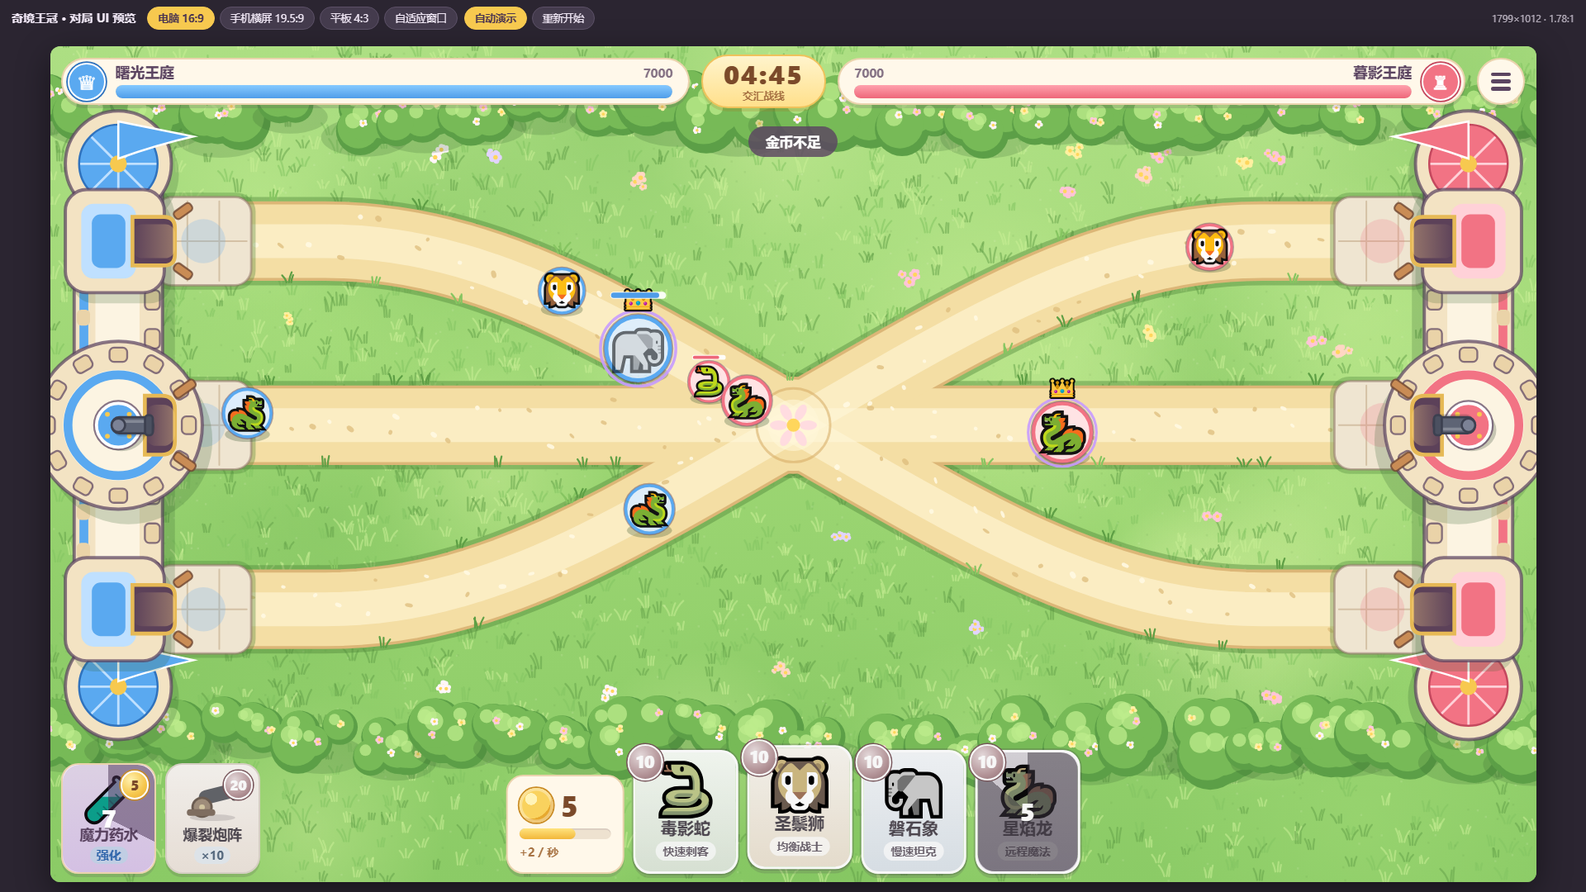
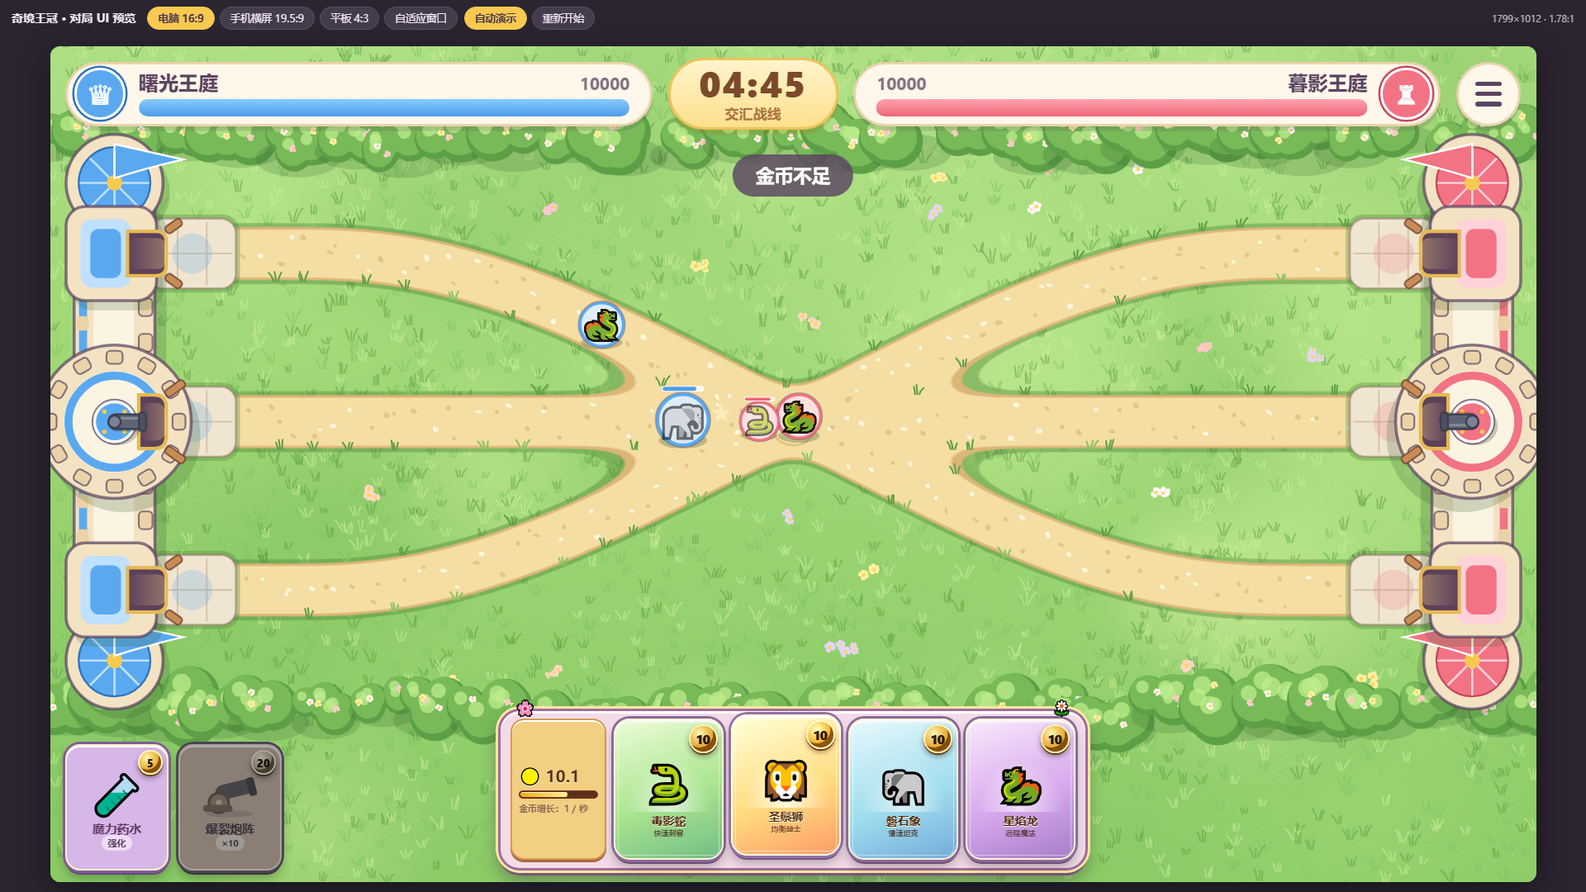
design: restore original card tray, narrow roads, round junctions, enlarge HUD

diff --git a/design/ui-preview.html b/design/ui-preview.html
@@ -81,48 +81,51 @@ body.fill #stage{border-radius:0;box-shadow:none}
 #hint{left:50%;top:8.4rem;transform:translateX(-50%);padding:.7rem 1.8rem;border-radius:2rem;background:rgba(91,68,97,.82);color:#fff;font-size:max(10px,1.45rem);font-weight:700;white-space:nowrap;opacity:0;transition:opacity .2s;pointer-events:none}
 #hint.show{opacity:1}
 
-/* ---------- 底部一行：技能 + 金币 + 四张卡 ---------- */
-#dock{left:1.2rem;right:1.2rem;bottom:.9rem;height:13.4rem}
-#skills{position:absolute;left:0;bottom:0;display:flex;gap:.9rem}
-#hand{position:absolute;left:50%;bottom:0;transform:translateX(-50%);display:flex;align-items:flex-end;gap:1rem}
+/* ---------- 底部：左侧技能 + 中间卡牌托盘（外观还原原版） ---------- */
+#dock{left:1.2rem;right:1.2rem;bottom:.9rem;height:12.6rem}
+#skills{position:absolute;left:0;bottom:0;display:flex;gap:.8rem}
+#hand{position:absolute;left:50%;bottom:0;transform:translateX(-50%);height:100%;display:flex;align-items:stretch;gap:.62rem;padding:.62rem .8rem;border-radius:1.7rem;background:#f3dce8;border:max(2px,.25rem) solid #a06d9d;box-shadow:inset 0 .19rem 0 #fff,0 0 0 max(1.5px,.19rem) #ffe8a1,0 .38rem 0 #7a567d,0 .75rem 1.2rem rgba(56,40,61,.4)}
+#hand::before,#hand::after{position:absolute;top:-.82rem;font-family:var(--emoji);font-size:max(12px,1.2rem);line-height:1;z-index:4}
+#hand::before{content:"🌸";left:1.1rem}
+#hand::after{content:"🌼";right:1.1rem}
 
-.skill{position:relative;width:10rem;height:11.6rem;border-radius:1.8rem;display:flex;flex-direction:column;align-items:center;justify-content:center;gap:.3rem;overflow:hidden}
-.skill .art{height:5.2rem;display:grid;place-items:center;font-family:var(--emoji);font-size:4.6rem;line-height:1}
-.skill .art svg{width:7rem;height:5.2rem}
-.skill .name{font-size:max(10px,1.55rem);font-weight:800;white-space:nowrap}
-.skill .meta{display:flex;gap:.5rem;align-items:center;font:700 max(9px,1.3rem)/1 var(--num-font)}
-.skill .count{padding:.25rem .7rem;border-radius:1rem;background:var(--blue-l);color:var(--blue-d)}
-.skill.potion{background:linear-gradient(#f9efff,#efdcff)}
-.skill.burst{background:linear-gradient(#fff4e6,#ffe1c4)}
+.coins{width:7.4rem;border-radius:1.05rem;padding:.5rem;display:flex;flex-direction:column;justify-content:center;gap:.32rem;background:#f2cf83;border:max(1.5px,.19rem) solid #d49b56;box-shadow:inset 0 .13rem 0 #fff,0 .19rem 0 #a8683e;color:#65403f}
+.coins b{font-size:max(12px,1.25rem);font-weight:900;color:#593013;text-shadow:0 1px #fff4bd;white-space:nowrap;font-variant-numeric:tabular-nums}
+.coins .bar{height:.6rem;margin:0;border:max(1px,.13rem) solid #6c351c;background:#5b2f1c;box-shadow:none}
+.coins .bar i{background:linear-gradient(90deg,#f0a918,#fff08d);box-shadow:inset 0 1px #fff7bd}
+.coins small{font-size:max(8px,.7rem);font-weight:800;opacity:.72;white-space:nowrap}
 
-.coins{width:12.4rem;height:10.4rem;border-radius:1.8rem;padding:1rem 1.2rem;display:flex;flex-direction:column;justify-content:center;gap:.6rem}
-.coins .top{display:flex;align-items:center;gap:.8rem}
-.coin-ico{flex:none;width:3.6rem;height:3.6rem;border-radius:50%;background:radial-gradient(circle at 35% 32%,#fff3b8 0 18%,#f9d25e 19% 60%,#e7a92f 61%);box-shadow:inset 0 0 0 .3rem rgba(255,255,255,.35),0 0 0 max(1px,.16rem) #c98a22}
-.coins b{font:800 max(15px,3rem)/1 var(--num-font);font-variant-numeric:tabular-nums;color:#7b4a2a}
-.coins .bar{margin-top:0;height:1.2rem}
-.coins .bar i{background:linear-gradient(#ffe37d,#f2b73a)}
-.coins small{font-size:max(9px,1.2rem);font-weight:700;color:#a87445;white-space:nowrap}
+.card{position:relative;width:8.5rem;border-radius:1.25rem;padding:0 .38rem;display:flex;flex-direction:column;align-items:center;justify-content:center;overflow:hidden;color:#492919;background:var(--card-bg);border:max(1.5px,.19rem) solid #fff6d4;box-shadow:inset 0 .13rem 0 #fff,0 0 0 max(1.5px,.19rem) #8c6a9c,0 .32rem 0 #705179,0 .56rem .8rem rgba(0,0,0,.27);transition:transform .15s,filter .2s}
+.card::before{content:"";position:absolute;inset:.19rem;border:1px solid rgba(255,255,255,.48);border-radius:.56rem;pointer-events:none}
+.card .art{width:100%;height:4.6rem;margin-top:.9rem;display:grid;place-items:center;font-family:var(--emoji);font-size:2.9rem;line-height:1;background:radial-gradient(ellipse at 50% 95%,rgba(255,255,255,.68),transparent 63%)}
+.card .name{font-size:max(10px,.9rem);font-weight:900;text-shadow:0 1px #fff9d0;white-space:nowrap;margin-top:.15rem}
+.card .tag{font-size:max(8px,.58rem);font-weight:800;opacity:.72;white-space:nowrap}
+.cost{position:absolute;right:.32rem;top:.32rem;width:2.2rem;height:2.2rem;border-radius:50%;display:grid;place-items:center;font:900 max(10px,1rem)/1 var(--num-font);color:#2a1903;background:radial-gradient(circle at 35% 30%,#fff9b8,#e9a92c 55%,#86510e 57%);border:max(1.5px,.13rem) solid #fff6b5;box-shadow:0 .13rem 0 #6f3d0e,0 .25rem .45rem rgba(0,0,0,.4);z-index:2}
+.card[data-type="snake"]{--card-bg:linear-gradient(160deg,#efffd8,#abe88f 56%,#72bf85)}
+.card[data-type="lion"]{--card-bg:linear-gradient(160deg,#fff4cf,#ffd078 58%,#ed9563)}
+.card[data-type="elephant"]{--card-bg:linear-gradient(160deg,#eafdff,#9fdef0 58%,#75aede)}
+.card[data-type="dragon"]{--card-bg:linear-gradient(160deg,#fcecff,#d9a8ef 58%,#a77fcb)}
 
-.card{position:relative;width:11rem;height:13rem;border-radius:1.8rem;display:flex;flex-direction:column;align-items:center;justify-content:flex-end;padding-bottom:1.1rem;gap:.35rem;background:var(--card-bg);border:max(2px,.3rem) solid #fff;box-shadow:0 0 0 max(1px,.16rem) rgba(91,68,97,.28),0 .45rem 0 var(--ink-soft);transition:transform .15s,filter .2s}
-.card .art{font-family:var(--emoji);font-size:5.4rem;line-height:1;margin-bottom:.2rem}
-.card .name{font-size:max(10px,1.75rem);font-weight:800;white-space:nowrap}
-.card .tag{padding:.2rem .8rem;border-radius:1rem;background:rgba(255,255,255,.75);font-size:max(9px,1.2rem);font-weight:700;white-space:nowrap;color:#7a5c80}
-.cost{position:absolute;left:-.9rem;top:-.9rem;width:3.8rem;height:3.8rem;border-radius:50%;display:grid;place-items:center;font:800 max(11px,1.8rem)/1 var(--num-font);color:#7b4a2a;background:radial-gradient(circle at 35% 30%,#fff1b0,#f6c74d 60%,#e8a930);border:max(1.5px,.22rem) solid #fff;box-shadow:0 0 0 max(1px,.14rem) #c98a22;z-index:2}
-.skill .cost{left:auto;right:.6rem;top:.6rem;width:3rem;height:3rem;font-size:max(10px,1.45rem)}
-.card[data-type="snake"]{--card-bg:linear-gradient(#efffe8,#cdeec0)}
-.card[data-type="lion"]{--card-bg:linear-gradient(#fff6e0,#ffe0aa)}
-.card[data-type="elephant"]{--card-bg:linear-gradient(#eef8ff,#cfe6fb)}
-.card[data-type="dragon"]{--card-bg:linear-gradient(#fbf0ff,#e7d2fb)}
-.card:hover{transform:translateY(-.5rem)}
-.card.selected,.skill.selected{transform:translateY(-1.2rem);box-shadow:0 0 0 max(2px,.35rem) var(--gold),0 .8rem 0 var(--ink-soft)}
-.card.poor,.skill.poor{filter:saturate(.3) brightness(.97)}
-.card.poor .cost,.skill.poor .cost{background:radial-gradient(circle at 35% 30%,#ffd9dd,#f48a97 60%,#d65b6c);box-shadow:0 0 0 max(1px,.14rem) #b94457;color:#fff}
-.card.buffed{box-shadow:0 0 0 max(2px,.35rem) #c79bff,0 .45rem 0 var(--ink-soft)}
-.card.buffed::before{content:"👑";position:absolute;right:.5rem;top:.3rem;font-family:var(--emoji);font-size:2.2rem}
+.skill{position:relative;width:8rem;height:9.8rem;border-radius:1.15rem;display:flex;flex-direction:column;align-items:center;justify-content:center;gap:.2rem;overflow:hidden;color:#613b65;border:max(1.5px,.19rem) solid #fff1c8;box-shadow:inset 0 .13rem 0 #fff,0 0 0 max(1.5px,.19rem) #7f5b98,0 .32rem 0 #654777,0 .56rem .9rem rgba(0,0,0,.27);transition:transform .15s,filter .2s}
+.skill.potion{background:#d7b7e8}
+.skill.burst{background:#f3b184}
+.skill .art{height:4rem;display:grid;place-items:center;font-family:var(--emoji);font-size:3.1rem;line-height:1}
+.skill .art svg{width:5.4rem;height:4rem}
+.skill .name{font-size:max(10px,.95rem);font-weight:800;white-space:nowrap}
+.skill .meta{font:700 max(8px,.7rem)/1 var(--num-font)}
+.skill .count{padding:.15rem .5rem;border-radius:1rem;background:rgba(255,255,255,.55)}
+.skill .cost{width:1.9rem;height:1.9rem;font-size:max(9px,.85rem)}
 
-/* 冷却遮罩：圆形扫描 + 秒数 */
-.cd{position:absolute;inset:0;border-radius:inherit;display:none;place-items:center;background:conic-gradient(rgba(70,48,82,.58) calc(var(--p,0) * 1turn),rgba(70,48,82,.16) 0);font:800 max(13px,2.6rem)/1 var(--num-font);color:#fff;text-shadow:0 .2rem 0 rgba(0,0,0,.25);z-index:1}
-.cooling .cd{display:grid}
+.card:hover,.skill:hover{transform:translateY(-.32rem);filter:brightness(1.05)}
+.card.selected,.skill.selected{transform:translateY(-.2rem);filter:brightness(1.16);outline:max(2px,.19rem) solid #fff7bf;box-shadow:0 0 0 max(1.5px,.19rem) #9c551f,0 0 1.15rem #ffe787}
+.card.poor,.card.cooling,.skill.poor,.skill.cooling{filter:grayscale(.72) brightness(.68)}
+.card.buffed{outline:max(2px,.19rem) solid #d798ff;box-shadow:0 0 1.6rem rgba(199,120,255,.9),0 .56rem 1.25rem rgba(0,0,0,.42)}
+.card.buffed::after{content:"药水强化";position:absolute;left:.32rem;bottom:.32rem;padding:.12rem .32rem;border-radius:.38rem;background:rgba(101,39,145,.9);border:1px solid #e2b3ff;color:#fff;font-size:max(8px,.56rem);font-weight:900;z-index:3}
+
+/* 冷却遮罩：原版样式，从底部按剩余比例升起 + 秒数 */
+.cd{display:none;position:absolute;left:0;right:0;bottom:0;height:calc(var(--p,0) * 100%);background:linear-gradient(rgba(31,23,25,.64),rgba(12,9,13,.86));z-index:1;pointer-events:none}
+.cooling .cd{display:block}
+.cooling::after{content:attr(data-cd);position:absolute;inset:0;display:grid;place-items:center;font:900 max(12px,1.5rem)/1 var(--num-font);color:#fff7cf;text-shadow:0 2px 5px #000;z-index:4;pointer-events:none}
 
 /* ---------- 竖屏提示（仅自适应模式） ---------- */
 #rotate{position:absolute;inset:0;display:none;place-content:center;text-align:center;gap:12px;background:#2b2531;color:#fff;font-size:16px;z-index:5}
@@ -154,7 +157,7 @@ body.fill #stage{border-radius:0;box-shadow:none}
       <div class="plate player panel">
         <div class="crest">♛</div>
         <div class="info">
-          <div class="row"><span>曙光王庭</span><span class="hp" id="pHpText">7000</span></div>
+          <div class="row"><span>曙光王庭</span><span class="hp" id="pHpText">10000</span></div>
           <div class="bar"><i id="pHp"></i></div>
         </div>
       </div>
@@ -162,7 +165,7 @@ body.fill #stage{border-radius:0;box-shadow:none}
       <div class="plate enemy panel">
         <div class="crest">♜</div>
         <div class="info">
-          <div class="row"><span>暮影王庭</span><span class="hp" id="eHpText">7000</span></div>
+          <div class="row"><span>暮影王庭</span><span class="hp" id="eHpText">10000</span></div>
           <div class="bar"><i id="eHp"></i></div>
         </div>
       </div>
@@ -181,13 +184,13 @@ body.fill #stage{border-radius:0;box-shadow:none}
 
     <div id="dock" class="hud">
       <div id="skills">
-        <button class="skill potion panel" data-skill="potion" title="魔力药水：选中后点一张卡牌，强化该卡下一次部署的单位">
+        <button class="skill potion" data-skill="potion" title="魔力药水：选中后点一张卡牌，强化该卡下一次部署的单位">
           <span class="cost">5</span>
           <span class="art">🧪</span><span class="name">魔力药水</span>
           <span class="meta"><span class="count">强化</span></span>
           <span class="cd"></span>
         </button>
-        <button class="skill burst panel" data-skill="burst" title="爆裂炮阵：选中后点一条道路，沿该路连续炮击">
+        <button class="skill burst" data-skill="burst" title="爆裂炮阵：选中后点一条道路，沿该路连续炮击">
           <span class="cost">20</span>
           <span class="art"><svg viewBox="0 0 70 52" aria-hidden="true">
             <ellipse cx="35" cy="47" rx="24" ry="3.5" fill="rgba(91,68,97,.18)"/>
@@ -203,10 +206,10 @@ body.fill #stage{border-radius:0;box-shadow:none}
         </button>
       </div>
       <div id="hand">
-        <div class="coins panel">
-          <div class="top"><span class="coin-ico"></span><b id="coinText">20</b></div>
+        <div class="coins">
+          <b id="coinText">🟡 15.0</b>
           <div class="bar"><i id="coinBar"></i></div>
-          <small>+2 / 秒</small>
+          <small>金币增长：1 / 秒</small>
         </div>
         <button class="card" data-type="snake" title="毒影蛇 · 快速刺客&#10;生命 500 · 攻击 10 · 移速 80 · 射程 60&#10;中毒 2/s×10 秒，可独立叠加"><span class="cost">10</span><span class="art">🐍</span><span class="name">毒影蛇</span><span class="tag">快速刺客</span><span class="cd"></span></button>
         <button class="card" data-type="lion" title="圣鬃狮 · 均衡战士&#10;生命 700 · 攻击 20 · 移速 60 · 射程 70&#10;参与击杀回复 100 生命"><span class="cost">10</span><span class="art">🦁</span><span class="name">圣鬃狮</span><span class="tag">均衡战士</span><span class="cd"></span></button>
@@ -228,7 +231,7 @@ const stage = $('#stage');
 let ratio = 1.7778;
 
 // u = 舞台基准单位（px）。按高度 1%，宽度过窄时收缩，太小时保底以保证手机可读。
-function computeUnit(w, h) { return Math.max(4.8, Math.min(h / 88, w * .0072)); }
+function computeUnit(w, h) { return Math.max(6.5, Math.min(h / 65, w * .0097)); }
 
 function fitStage() {
   const vp = $('#viewport').getBoundingClientRect();
@@ -301,9 +304,10 @@ function bez(out, p0, p1, p2, p3, n) {
 /* ---------- 几何：全部由舞台宽高推导，战场随比例拉伸 ---------- */
 function buildGeometry(w, h) {
   const u = parseFloat(getComputedStyle(document.documentElement).fontSize) || 8;
-  const top = 7.6 * u, bottom = h - 15.8 * u, band = bottom - top, cy = (top + bottom) / 2;
+  const top = 7.4 * u, bottom = h - 14 * u, band = bottom - top, cy = (top + bottom) / 2;
   const s = Math.min(band * .3, w * .16);          // 车道间距
-  const rw = s * .4;                                // 路宽
+  const rw = s * .4;                                // 建筑与单位尺度基准
+  const road = rw * .7;                             // 路面宽
   const S0 = rw / 50;                               // 线宽/细节基准
   const T = rw * 1.2;                               // 城墙厚度
   const m = Math.max(w * .016, rw * .25);           // 城墙到舞台边缘
@@ -320,7 +324,7 @@ function buildGeometry(w, h) {
   const mid = []; for (let i = 0; i <= 12; i++) mid.push({ x: lerp(rs, re, i / 12), y: cy });
   const paths = [cross(ys[0], ys[2]), new Path(mid), cross(ys[2], ys[0])];
   return {
-    w, h, u, top, bottom, cy, cx, s, rw, S0, T, m, x1L, x1R, rs, re, L, ys, paths,
+    w, h, u, top, bottom, cy, cx, s, rw, road, S0, T, m, x1L, x1R, rs, re, L, ys, paths,
     wy0: ys[0] - rw * 1.05, wy1: ys[2] + rw * 1.05,
     unitR: rw * .3,
     k: L / 1070,                                    // 原版道路长 1070 px → 当前像素的换算系数
@@ -330,7 +334,7 @@ function buildGeometry(w, h) {
 
 /* ---------- 静态底图：草地 + 道路 + 平台 + 花丛（缓存为离屏画布） ---------- */
 function farFromRoads(F, x, y, gap) {
-  for (const p of F.paths) if (p.nearest(x, y).d < F.rw / 2 + gap) return false;
+  for (const p of F.paths) if (p.nearest(x, y).d < F.road / 2 + gap) return false;
   return x > F.x1L + F.rw * .9 && x < F.x1R - F.rw * .9;
 }
 function drawBlades(g, x, y, len, S0, color, rnd) {
@@ -357,21 +361,38 @@ function drawBush(g, x, y, r, rnd, S0) {
   for (let i = 0; i < 3; i++) { const b = blobs[i]; drawFlower(g, b.x + (rnd() - .5) * b.r, b.y + (rnd() - .5) * b.r * .6, Math.max(1.1, 1.6 * S0), pet[i % 3], rnd); }
 }
 function roadLayers(F) {
-  const { rw, S0 } = F;
+  const { road, S0 } = F;
   return [
-    { w: rw + 10 * S0, c: 'rgba(78,134,58,.42)' },   // 草地压边：清楚的绿色描边
-    { w: rw + 4 * S0, c: '#dcb677' },                 // 沙土外沿
-    { w: rw, c: '#f4dea4' },                          // 路面
-    { w: rw * .46, c: 'rgba(255,246,216,.6)' }        // 中线提亮
+    { w: road + 10 * S0, c: 'rgba(78,134,58,.42)' },   // 草地压边：清楚的绿色描边
+    { w: road + 4 * S0, c: '#dcb677' },                 // 沙土外沿
+    { w: road, c: '#f4dea4' }                           // 路面
   ];
 }
+// 道路蒙版：先按宽度画出三条路，再模糊后取阈值。凹角（分岔、交汇处）会被填成圆弧，直边基本不动。
+function erf(x) { const t = 1 / (1 + .3275911 * x); return 1 - (((((1.061405429 * t - 1.453152027) * t) + 1.421413741) * t - .284496736) * t + .254829592) * t * Math.exp(-x * x); }
+function roadMask(F, width, color, dpr) {
+  const W = Math.round(F.w * dpr), H = Math.round(F.h * dpr);
+  const a = document.createElement('canvas'); a.width = W; a.height = H;
+  const ga = a.getContext('2d'); ga.setTransform(dpr, 0, 0, dpr, 0, 0);
+  ga.strokeStyle = ga.fillStyle = '#fff'; ga.lineWidth = width; ga.lineCap = 'round'; ga.lineJoin = 'round';
+  for (const p of F.paths) { p.trace(ga); ga.stroke(); }
+  circle(ga, F.cx, F.cy, F.road * .62 + (width - F.road) / 2); ga.fill();
+  const b = document.createElement('canvas'); b.width = W; b.height = H;
+  const gb = b.getContext('2d', { willReadFrequently: true });
+  const sigma = F.road * .45, edge = .5 * erf(width / (sigma * Math.SQRT2)) * 255, lo = edge - 3, hi = edge + 3;
+  gb.filter = `blur(${(sigma * dpr).toFixed(1)}px)`; gb.drawImage(a, 0, 0); gb.filter = 'none';
+  const img = gb.getImageData(0, 0, W, H), d = img.data;
+  for (let i = 3; i < d.length; i += 4) { const v = d[i]; d[i] = v <= lo ? 0 : v >= hi ? 255 : (v - lo) / (hi - lo) * 255; d[i - 3] = d[i - 2] = d[i - 1] = 255; }
+  gb.putImageData(img, 0, 0);
+  gb.globalCompositeOperation = 'source-in'; gb.fillStyle = color; gb.fillRect(0, 0, W, H);
+  return b;
+}
 function drawRoads(g, F, rnd) {
-  const { rw, S0, cx, cy } = F;
+  const { road: rw, S0, cx, cy } = F, dpr = g.getTransform().a;
   g.save(); g.lineCap = 'round'; g.lineJoin = 'round';
   for (const layer of roadLayers(F)) {
-    g.strokeStyle = layer.c; g.fillStyle = layer.c; g.lineWidth = layer.w;
-    for (const p of F.paths) { p.trace(g); g.stroke(); }
-    circle(g, cx, cy, rw * .62 + (layer.w - rw) / 2); g.fill();      // 中央小广场
+    const m = roadMask(F, layer.w, layer.c, dpr);
+    g.save(); g.setTransform(1, 0, 0, 1, 0, 0); g.drawImage(m, 0, 0); g.restore();
   }
   // 广场花砖
   g.strokeStyle = 'rgba(214,170,98,.55)'; g.lineWidth = Math.max(1, 1.6 * S0);
@@ -406,7 +427,7 @@ function drawPlatforms(g, F) {
   const { rw, S0, ys, T } = F;
   for (const side of ['player', 'enemy']) {
     for (const y of ys) {
-      const x0 = side === 'player' ? F.x1L - T * .08 : F.x1R - rw * 1.22, wdt = rw * 1.3, hh = rw * .6;
+      const x0 = side === 'player' ? F.x1L - T * .08 : F.x1R - rw * 1.22, wdt = rw * 1.3, hh = rw * .52;
       g.fillStyle = 'rgba(78,134,58,.35)'; rr(g, x0 - 3 * S0, y - hh - 3 * S0, wdt + 6 * S0, hh * 2 + 6 * S0, rw * .26); g.fill();
       g.fillStyle = '#efe5d1'; g.strokeStyle = 'rgba(150,120,110,.55)'; g.lineWidth = Math.max(1, 1.6 * S0);
       rr(g, x0, y - hh, wdt, hh * 2, rw * .22); g.fill(); g.stroke();
@@ -571,7 +592,7 @@ function drawCannon(g, F, side, st) {
 function highlightLane(g, F, i, color) {
   const p = F.paths[i];
   g.save(); g.lineCap = 'round'; g.lineJoin = 'round';
-  g.strokeStyle = color; g.globalAlpha = .28; g.lineWidth = F.rw * .9; p.trace(g); g.stroke();
+  g.strokeStyle = color; g.globalAlpha = .28; g.lineWidth = F.road * 1.1; p.trace(g); g.stroke();
   g.globalAlpha = 1; g.lineWidth = Math.max(2, 3.2 * F.S0); g.setLineDash([F.rw * .32, F.rw * .24]); p.trace(g); g.stroke();
   g.restore();
 }
@@ -612,13 +633,13 @@ const UNITS = {
   dragon:   { icon: '🐉', cost: 10, hp: 800,  atk: 20, speed: 50, range: 100, interval: 1,  cd: 5, size: 29, faceLeft: true, ranged: true }
 };
 const SKILLS = { potion: { cost: 5, cd: 20 }, burst: { cost: 20, cd: 20, dmg: 1000, n: 10 } };
-const WALL_HP = 7000, INCOME = 2, CANNON = { interval: 2, windup: .28, dmg: 150, speed: 760 };
+const WALL_HP = 10000, INCOME = 1, CANNON = { interval: 2, windup: .28, dmg: 150, speed: 760 };
 const TYPES = Object.keys(UNITS);
 
 let S;
 function reset() {
   S = {
-    time: 300, coins: { player: 20, enemy: 20 }, hp: { player: WALL_HP, enemy: WALL_HP },
+    time: 300, coins: { player: 15, enemy: 15 }, hp: { player: WALL_HP, enemy: WALL_HP },
     units: [], shots: [], fx: [], nextId: 1, paused: false, over: 0, clock: 0,
     cool: { player: {}, enemy: {} }, skillCool: { player: { potion: 0, burst: 0 }, enemy: { potion: 0, burst: 0 } },
     buffed: { player: null, enemy: null }, selected: null, hover: -1,
@@ -653,7 +674,7 @@ function deploy(side, type, lane) {
   S.coins[side] -= d.cost; S.cool[side][type] = d.cd;
   const buffed = S.buffed[side] === type; if (buffed) S.buffed[side] = null;
   S.units.push({
-    id: S.nextId++, side, type, lane, t: side === 'player' ? 0 : 1, offset: (Math.random() - .5) * .34,
+    id: S.nextId++, side, type, lane, t: side === 'player' ? 0 : 1, offset: 0,
     hp: d.hp * (buffed ? 1.5 : 1), maxHp: d.hp * (buffed ? 1.5 : 1), buffed, clock: .3, bob: Math.random() * TAU, flash: 0, attack: 0, born: .35
   });
   return true;
@@ -942,17 +963,17 @@ function syncHud() {
   $('#eHp').style.width = (S.hp.enemy / WALL_HP * 100).toFixed(1) + '%';
   $('#pHpText').textContent = Math.ceil(S.hp.player); $('#eHpText').textContent = Math.ceil(S.hp.enemy);
   $('#timer').textContent = fmt(Math.ceil(S.time));
-  $('#coinText').textContent = Math.floor(S.coins.player);
+  $('#coinText').textContent = '🟡 ' + S.coins.player.toFixed(1);
   $('#coinBar').style.width = Math.min(100, S.coins.player / 20 * 100).toFixed(1) + '%';
   $$('.card').forEach(el => {
     const t = el.dataset.type, d = UNITS[t], c = S.cool.player[t] || 0;
     el.classList.toggle('poor', S.coins.player < d.cost); el.classList.toggle('cooling', c > 0); el.classList.toggle('buffed', S.buffed.player === t);
-    el.style.setProperty('--p', (c / d.cd).toFixed(3)); el.querySelector('.cd').textContent = c > 0 ? Math.ceil(c) : '';
+    el.style.setProperty('--p', (c / d.cd).toFixed(3)); el.dataset.cd = c > 0 ? c.toFixed(1) : '';
   });
   $$('.skill').forEach(el => {
     const id = el.dataset.skill, sk = SKILLS[id], c = S.skillCool.player[id];
     el.classList.toggle('poor', S.coins.player < sk.cost); el.classList.toggle('cooling', c > 0);
-    el.style.setProperty('--p', (c / sk.cd).toFixed(3)); el.querySelector('.cd').textContent = c > 0 ? Math.ceil(c) : '';
+    el.style.setProperty('--p', (c / sk.cd).toFixed(3)); el.dataset.cd = c > 0 ? c.toFixed(1) : '';
   });
 }
 

diff --git a/TASK_STATE.md b/TASK_STATE.md
@@ -78,13 +78,13 @@ P5：给用户最终汇报（诊断 + 整改措施 + 落地到 index.html 的步
 ### 第二轮执行阶段（用户已确认规划，2026-10-07）
 
 - [x] Q1 清理：删两张未绘制图片及引用；删 PROJECT_HANDOFF.md、重写精简 AGENTS.md；删历史属性表只留 20260730.xlsx、测试改锁它；跑 `python tests/verify_game.py` 必须 PASS
-- [ ] Q2 展示页修改 `design/ui-preview.html`：卡片区还原原版外观（组件化）；路宽 ×0.7、去白线留石子；单位走中线；分岔/交汇内角圆角约一路宽；HUD 放大约 35%
+- [x] Q2 展示页修改 `design/ui-preview.html`：卡片区还原原版外观（组件化）；路宽 ×0.7、去白线留石子；单位走中线；分岔/交汇内角圆角约一路宽；HUD 放大约 35%
 - [ ] Q3 城堡概念页 `design/castle-concepts.html`：圆塔要塞群 / 蘑菇童话村 / 糖果蛋糕城，三方案并排，同一战场底图，玩法结构不变
 - [ ] Q4 截图自检 + 汇报，等用户选城堡
 
 Q1 结果：删了 fairy-castle-gate-v1.png、fairy-cannon-barrel-v1.png（含 index.html preload/加载/测试探针字段、manifest 条目、测试断言）；顺带去掉 style.css 里 11 处指向不存在路径 `css/assets/fairy-road-stone-texture-v1.png` 的 404 背景图（原本就加载失败，画面不变）；删 PROJECT_HANDOFF.md，AGENTS.md 重写为精简版；属性表只留 20260730.xlsx，测试改锁它，verify_game.py 全 PASS；浏览器实测开局出兵正常、无 console 错误、无 404。
 
-下一步：Q2（改 design/ui-preview.html）。
+下一步：Q3（城堡概念页 design/castle-concepts.html）。用户说视觉验收页不必严谨，差不多即可。
 
 Q2 参考数据（原版 1080p 实测的最终生效样式，换算 1rem≈16.6px）：
 - #bottomDock 736×203，flex 对齐 stretch，padding 10/13，gap 10，border 4px #a06d9d，圆角 27，底色 #f3dce8；阴影 inset 0 3px #fff, 0 0 0 3px #ffe8a1, 0 6px 0 #7a567d, 0 12px 19px rgba(56,40,61,.4)；::before "🌸"、::after "🌼" 19px，top -13px，left/right 18px。
